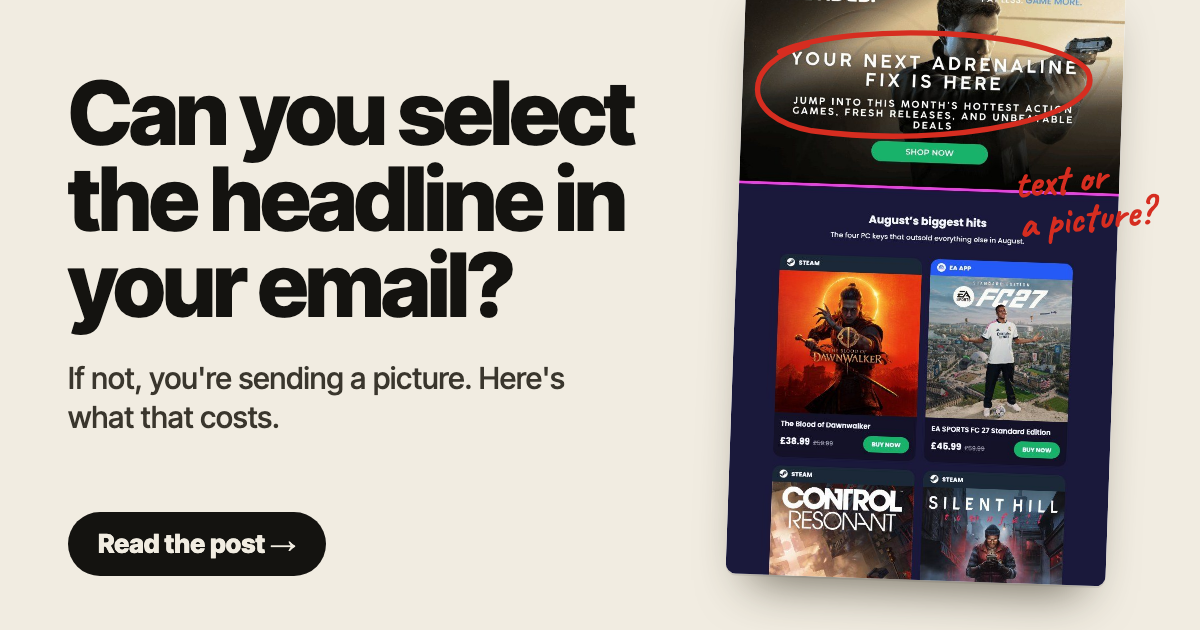
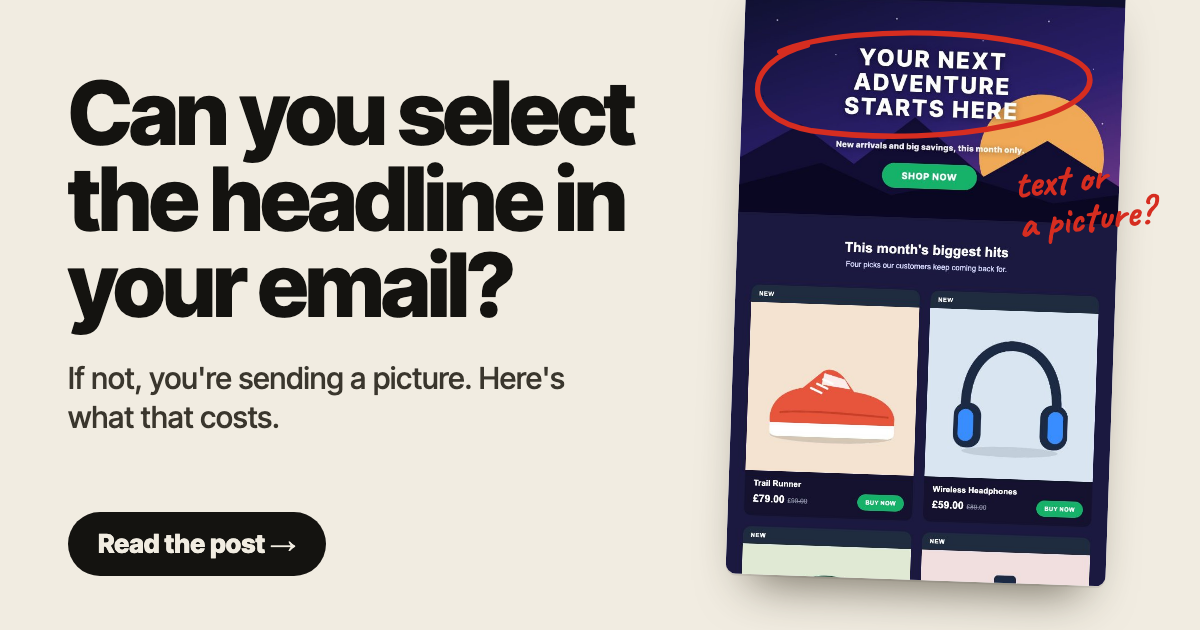
Add files via upload

Changed region(s): [[0.6167, 0.0, 0.9558, 0.9349]]

diff --git a/journal/img/og-email.src.html b/journal/img/og-email.src.html
@@ -9,7 +9,6 @@ h1{font-weight:800;font-size:88px;line-height:.98;letter-spacing:-.035em}
 .sub{font-size:30px;line-height:1.3;font-weight:500;margin-top:30px;color:#3a362d;max-width:540px}
 .foot{position:absolute;left:68px;bottom:54px;right:68px;display:flex;align-items:center;gap:22px}
 .pill{background:#141310;color:#f1ece1;font-weight:800;font-size:26px;padding:16px 30px;border-radius:99px}
-.url{font:500 20px 'JetBrains Mono',monospace;color:#6a6454}
 .mail{position:absolute;right:84px;top:-30px;width:380px;height:610px;overflow:hidden;border-radius:10px;box-shadow:0 2px 0 #0001,0 30px 50px -24px #2a2415aa;transform:rotate(2deg);background:#fff}
 .mail img{display:block;width:100%}
 .note{position:absolute;font:700 40px 'Caveat',cursive;color:#d62d20;line-height:1}
@@ -19,7 +18,7 @@ svg{position:absolute;overflow:visible}
   <h1>Can you select the headline in your email?</h1>
   <p class="sub">If not, you're sending a picture. Here's what that costs.</p>
 </div>
-<div class="mail"><img src="email-live-1.jpg"></div>
+<div class="mail"><img src="og-card-newsletter.jpg"></div>
 <svg style="right:96px;top:26px" width="360" height="124" viewBox="0 0 330 116"><path d="M30 24 C100 -6 290 4 318 42 C340 84 190 116 60 98 C-8 86 -6 34 56 18" fill="none" stroke="#d62d20" stroke-width="5" stroke-linecap="round"/></svg>
 <div class="note" style="right:48px;top:158px;transform:rotate(-6deg)">text or<br>a picture?</div>
 <div class="foot"><span class="pill">Read the post →</span></div>
